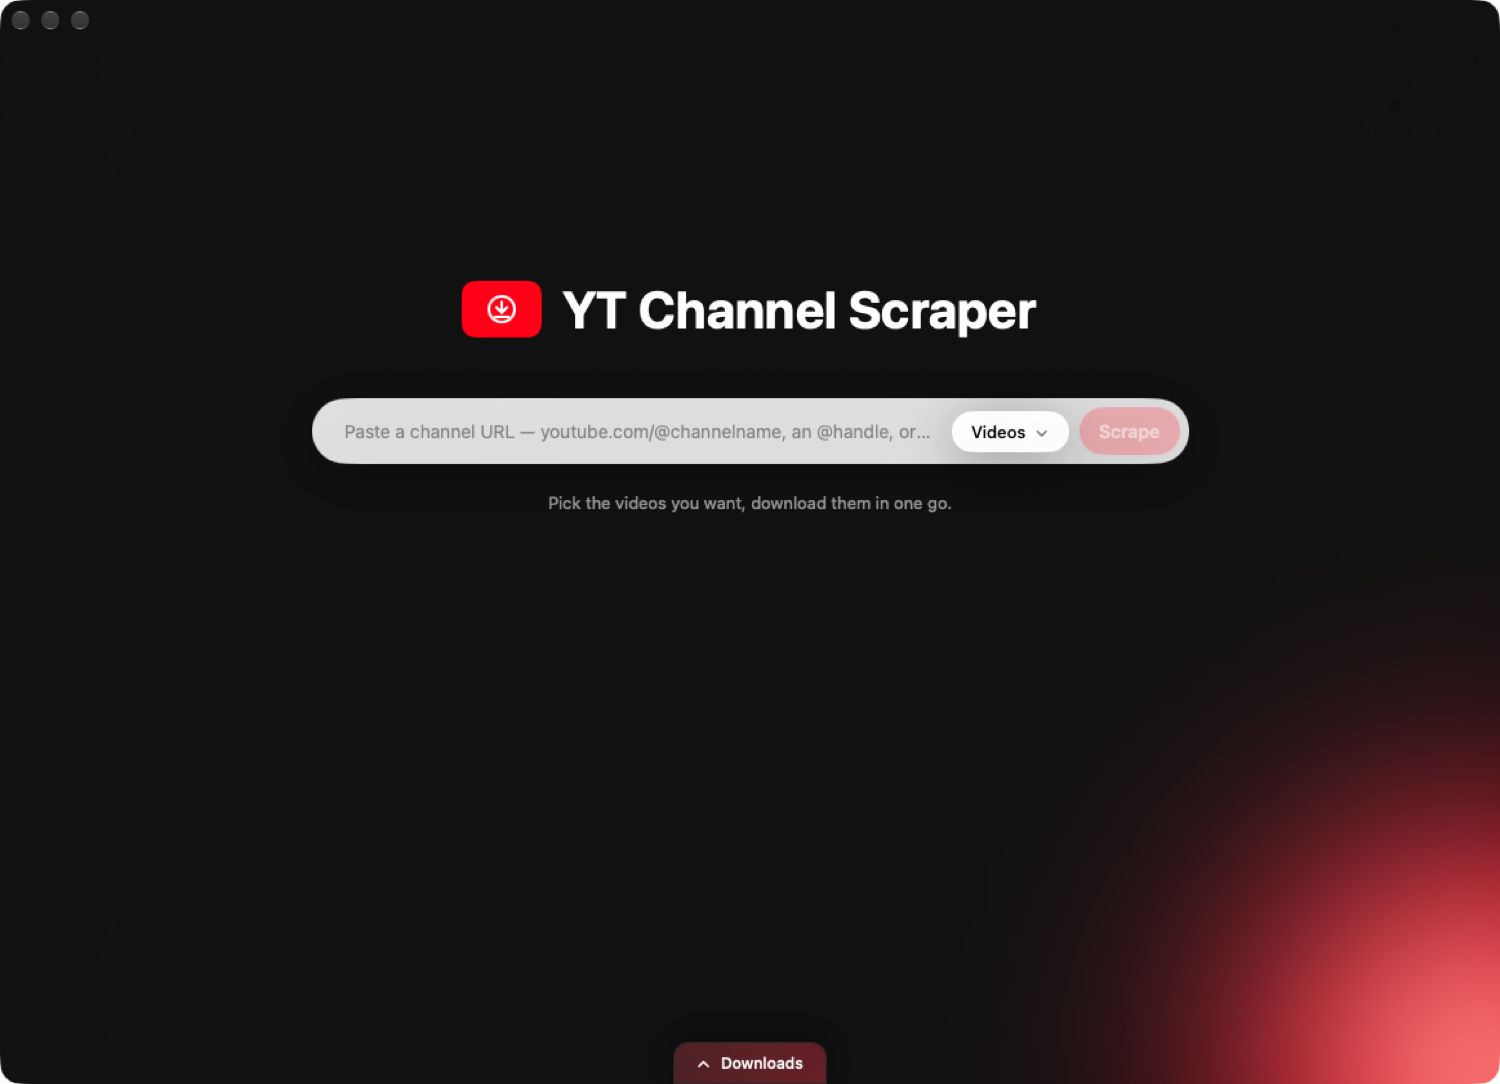
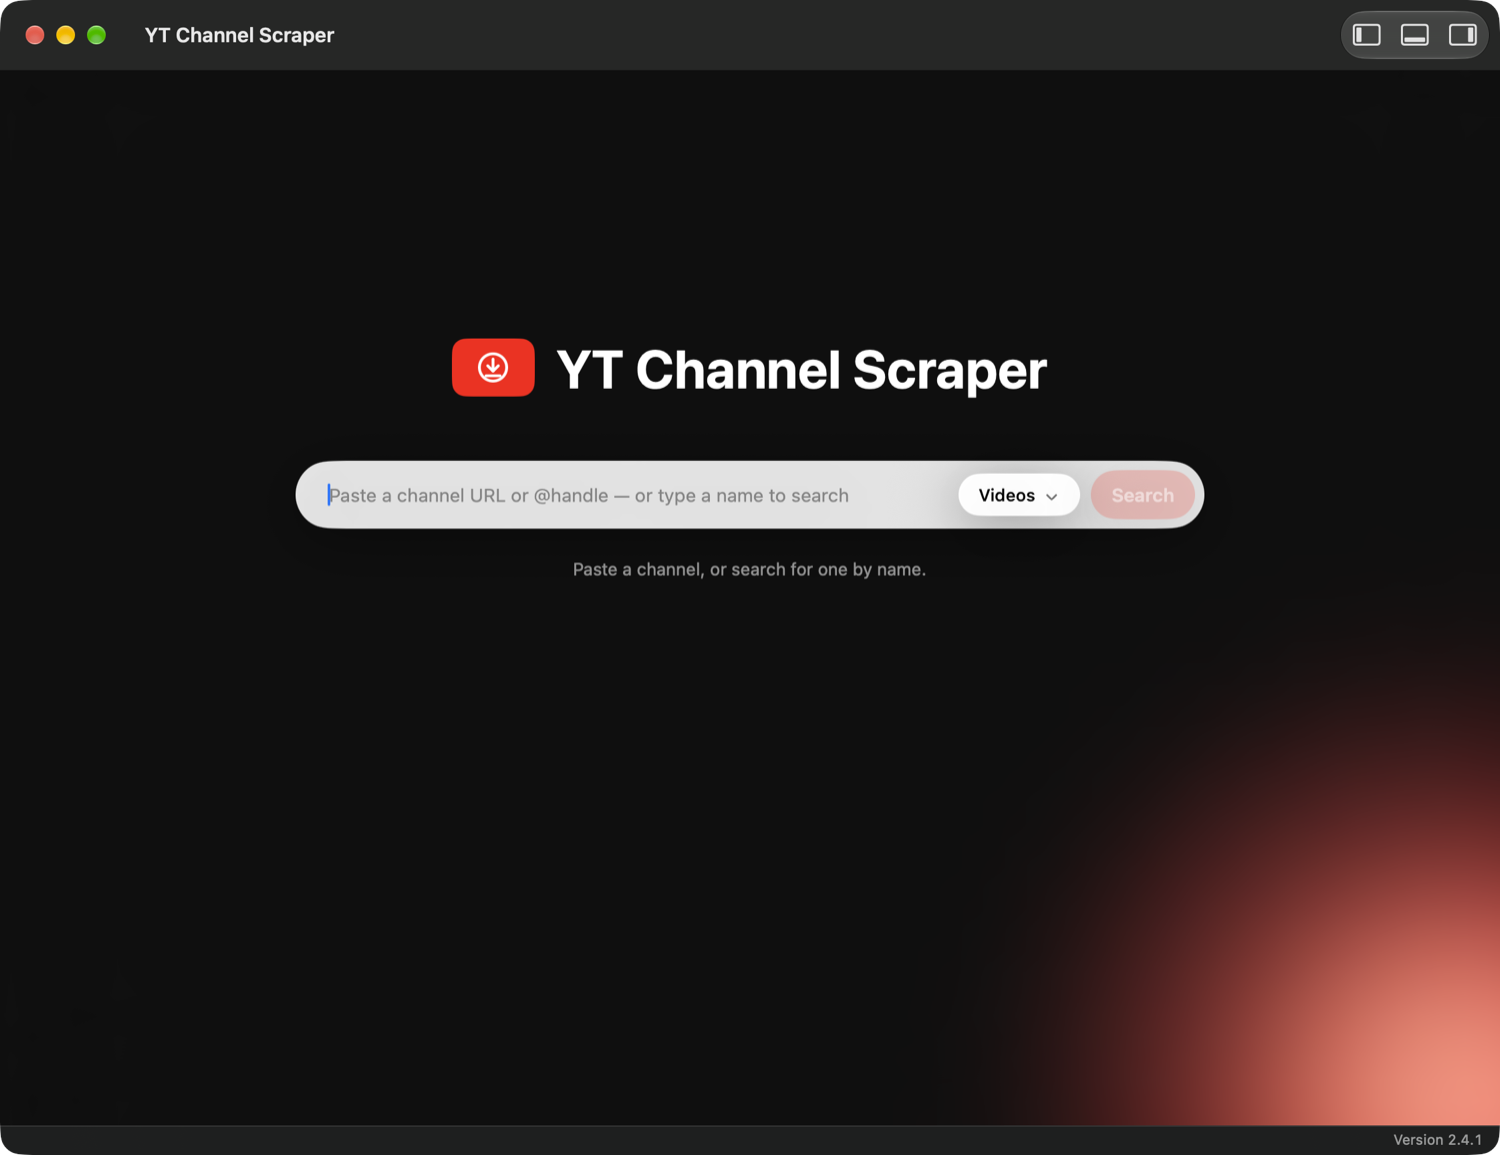
Re-shoot the screenshots on the current build (#10)
* Record why the quality menu is an AppKit one

The How it works list is where the decisions that would otherwise look
arbitrary are written down, and a control that is an NSMenu in an app whose
every other menu is SwiftUI's is exactly that: it reads as inconsistency
until you know SwiftUI has no way to say which edge a menu opens from.

* Re-shoot the screenshots on the current build

All five were taken on 10 September, and six UI commits have landed since —
the favourites panels and window chrome, the notch player button, the drawer
shortcuts, and the mp3 option. Every one of them showed an app that no longer
exists: no drawer buttons in the title bar, no bookmark in the results bar,
no kept section above the listing.

Re-shot from the 2.4.1 bundle at one window size, so they are at least
consistent with each other now, which the old set was not. The downloads
drawer is a real job rather than a staged one, so the row shows "Done + mp3"
where the text claims it does.

The new one is the quality menu, opened. It is the only picture of the thing
the last two releases were about, and the menu is also the control most
likely to be looked for and not found — which is exactly what happened.

---------

diff --git a/README.md b/README.md
@@ -222,6 +222,8 @@ the window.
 
 ### The video and the audio, from one download
 
+<img src="docs/06-quality-menu.jpg" alt="The quality menu with Also save an mp3 ticked" width="820">
+
 **Also save an mp3** sits under the qualities in the same menu, because it is not one of
 them: every quality there is a choice of *one* file, and this asks for a second one
 alongside whichever was picked. Tick it and the picker reads `1080p + mp3`.
@@ -290,6 +292,12 @@ cannot scrape.
   `canStartPictureInPictureAutomaticallyFromInline` is unavailable on macOS. Its hover is
   driven by cursor position with asymmetric zones rather than `.onHover`, because
   expanding resizes the panel, which rebuilds its tracking areas and oscillates.
+- **The quality menu is an AppKit one.** SwiftUI anchors a `Menu` to the leading edge of
+  its label and the SDK has no modifier for alignment — only `menuStyle`, `menuOrder`,
+  `menuIndicator` and `menuActionDismissBehavior`. A picker at the right end of the bar is
+  narrower than its own menu, so leading-anchored means the list opens out over the
+  Download button beside it. `NSMenu` can be popped at a point of our choosing, which is
+  the only reason that one control is not a `Menu`.
 - **The window has no title bar.** The traffic lights float over the page and the app's
   own header is the only chrome, which is why the hero can run edge to edge.
 - **Icons are rasterised from SVG** by `tools/svg2png.swift`, at each size rather than
